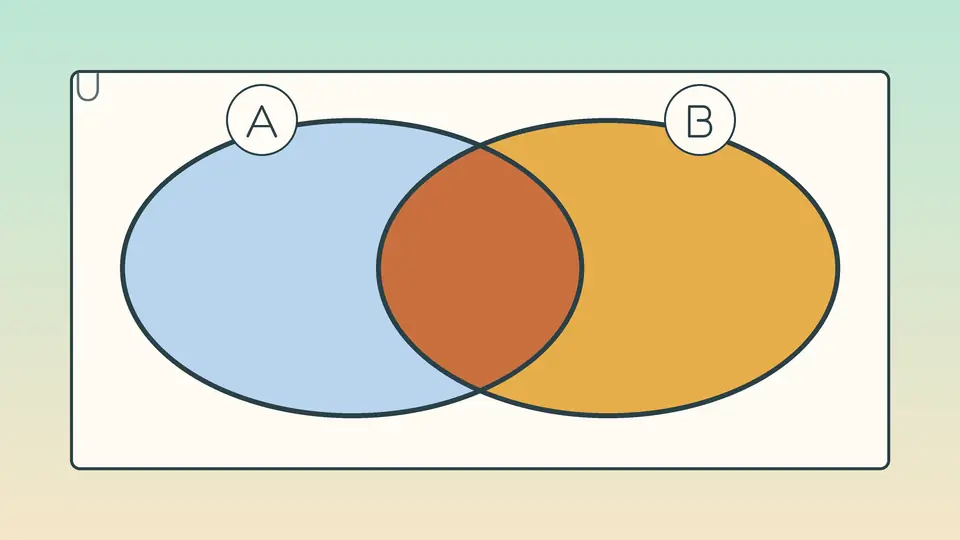
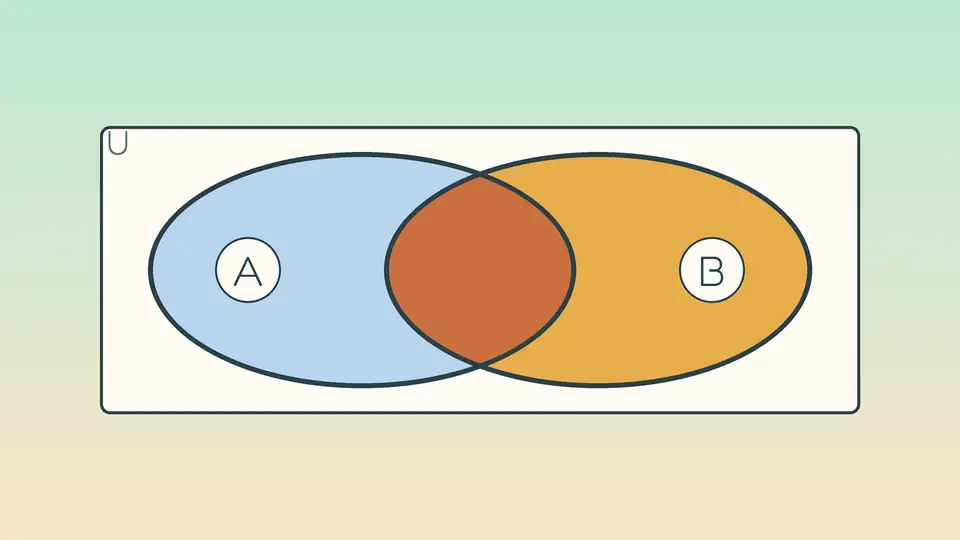
La couverture coupait le rectangle, qui est toute la leçon
En regardant la leçon dans son espace, les lettres A et B de la première
couverture avaient disparu. Mesure faite dans le navigateur : l-application
affiche une couverture en object-fit cover dans une boîte bien plus large
que 16/9, et n-en montre que la bande verticale 110 → 430 sur 540. Le reste
est coupé, en haut comme en bas.

Sur ve-lire, c-était pire que des lettres : le rectangle du set universel
sortait de la bande. Or ce rectangle EST la leçon — « the universal set is
represented by a rectangle ». La figure enseignait le contraire d-elle-même.

Les trois couvertures sont recadrées dans la bande. Et le contrôle ne se
souvient plus de la règle, il la vérifie : il rend chaque couverture et
compte les pixels d-encre tombés hors bande. Il a d-ailleurs attrapé
ve-lire une seconde fois, que je croyais corrigée — les cercles dépassaient
encore de six pixels.

diff --git a/work/figures-venn.py b/work/figures-venn.py
@@ -141,13 +141,13 @@ def _poser(t, ovales, teintes, etiquettes=None, trait=3, taille=20):
 # Leçon 1 — ce que montre un diagramme de Venn
 
 def ve_diagramme(t):  # couverture 960x540
-    _cadre(t, 70, 70, 890, 470, taille=40)
-    a, b = _deux(480, 268, 128, 232, 150)
+    _cadre(t, 100, 126, 860, 414, taille=34)
+    a, b = _deux(480, 270, 118, 214, 118)
     _poser(t, [a, b],
            [(lambda m: _sauf(m[0], m[1]), SKY),
             (lambda m: _sauf(m[1], m[0]), GOLD),
             (lambda m: _et(m[0], m[1]), CLAY)],
-           [((262, 120), 'A'), ((700, 120), 'B')], trait=5, taille=46)
+           [((248, 270), 'A'), ((712, 270), 'B')], trait=5, taille=42)
 
 
 def ve_relation(t):
@@ -309,8 +309,8 @@ def _trois_ovales(t, cx=160, cy=168, ecart=36, r=72):
 
 
 def ve_lire(t):  # couverture 960x540
-    _cadre(t, 150, 50, 810, 500, taille=36)
-    o = _trois(480, 268, 68, 142)
+    _cadre(t, 262, 112, 698, 428, taille=28)
+    o = _trois(480, 272, 52, 102)
     m = [_ovale_masque(t, *x) for x in o]
     seul = [_sauf(_sauf(m[i], m[(i + 1) % 3]), m[(i + 2) % 3]) for i in range(3)]
     paire = [_sauf(_et(m[i], m[(i + 1) % 3]), m[(i + 2) % 3]) for i in range(3)]
@@ -322,7 +322,7 @@ def ve_lire(t):  # couverture 960x540
     _teinter(t, centre, CLAY)
     for x in o:
         _contour(t, *x, trait=5)
-    _lettres(t, o, (480, 268), 0.74, 34)
+    _lettres(t, o, (480, 272), 0.76, 26)
 
 
 def _trois_poser(t, teintes):
@@ -410,10 +410,41 @@ FIGURES = [
 ]
 
 
+# L-application affiche une couverture en `object-fit: cover` dans une boîte
+# bien plus large que 16/9 : mesuré dans le navigateur, elle n-en montre que
+# la bande verticale 110 → 430 sur 540. Le reste est coupé, en haut comme en
+# bas. Les lettres A et B de la première couverture y sont passées, et le
+# rectangle du set universel de la troisième aussi — or ce rectangle EST la
+# leçon. Un dessin juste, invisible, ne vaut pas mieux qu-un dessin faux.
+BANDE = (110, 430)
+
+
+def _hors_bande(image):
+    """Les pixels d-encre qui tombent dans la partie coupée à l-affichage."""
+    petite = image.convert('RGB')
+    largeur, hauteur = petite.size
+    px = petite.load()
+    fautifs = 0
+    for y in list(range(0, BANDE[0])) + list(range(BANDE[1], hauteur)):
+        for x in range(0, largeur, 2):
+            r, v, b = px[x, y]
+            if abs(r - INK[0]) + abs(v - INK[1]) + abs(b - INK[2]) < 90:
+                fautifs += 1
+    return fautifs
+
+
 def controler():
     """Ce que la figure montre doit être ce que la leçon dit."""
     cles = [c for c, _w, _h, _f in FIGURES]
     assert len(set(cles)) == len(cles), 'clé en double'
+
+    for cle, w, h, fabrique in FIGURES:
+        if (w, h) != (960, 540):
+            continue
+        t = Toile(w, h)
+        fabrique(t)
+        fautifs = _hors_bande(t.fini())
+        assert fautifs == 0,             'couverture %s : %d pixels de dessin hors de la bande visible' % (cle, fautifs)
 
     # Les trois ovales doivent vraiment se croiser trois par trois, sinon la
     # région centrale dont parle la leçon n-existe pas sur le dessin.
